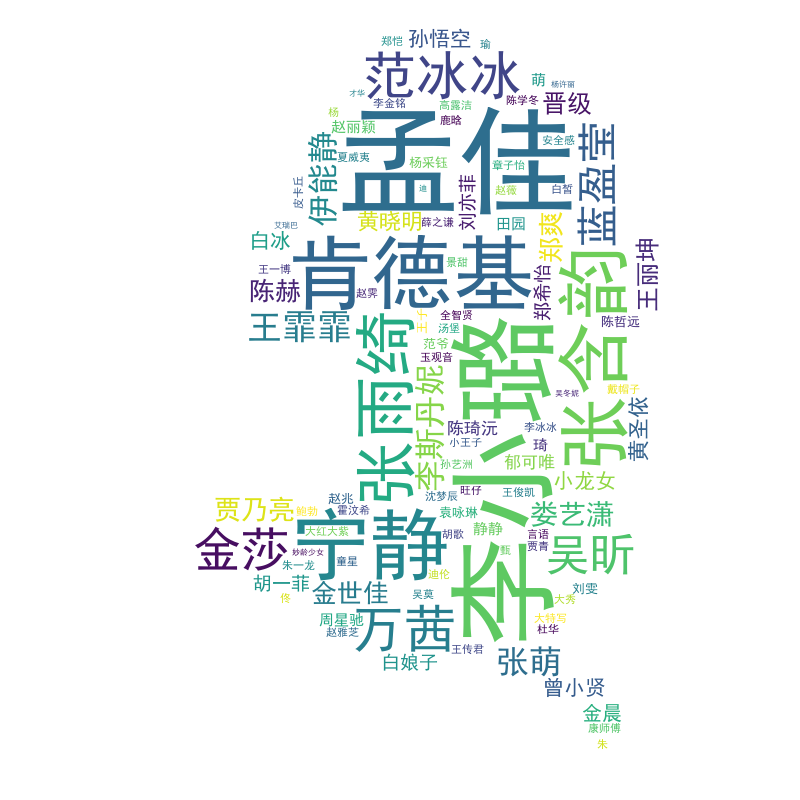
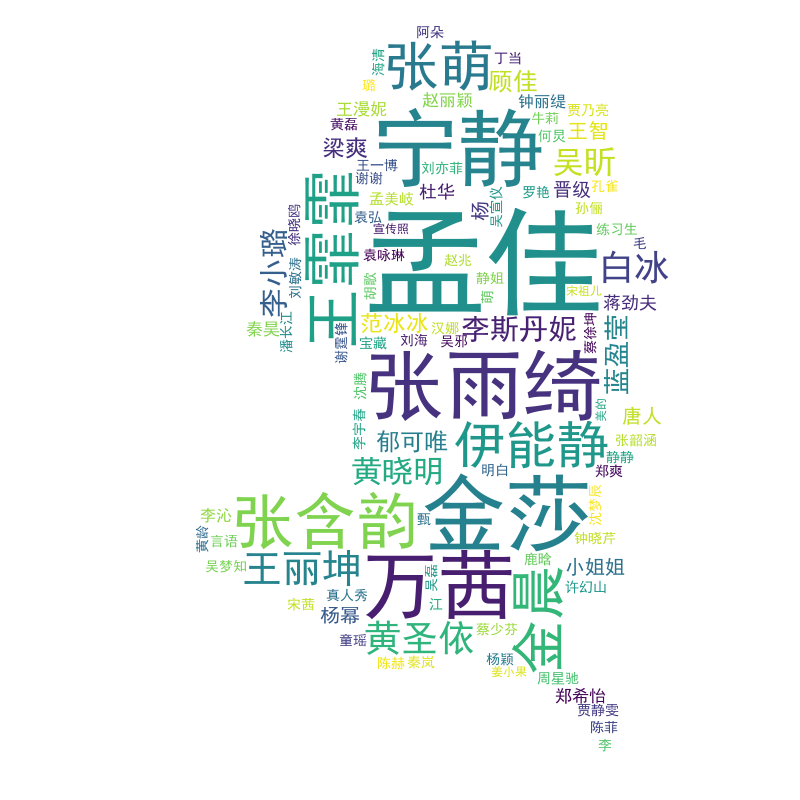
无

Changed region(s): [[0.2188, 0.0312, 0.8438, 0.9375]]

diff --git a/newscrawler/crawler.py b/newscrawler/crawler.py
@@ -49,13 +49,20 @@ url = 'https://pacaio.match.qq.com/irs/rcd?cid=146&token=49cbb2154853ef1a74ff4e5
 
 links = []
 
-for page in range(10):
+for page in range(500):
     print('get page: %s' % page)
-    response = requests.get(url % page)
-    links += [data['vurl'] for data in response.json()['data']]
+    try:
+        response = requests.get(url % page)
+    except Exception:
+        continue
+    else:
+        links += [data['vurl'] for data in response.json()['data']]
 
 words = []
 
+print('amount of links：%s' %len(links))
+
+count = 0
 
 for link in links:
     # 获取文章
@@ -74,7 +81,8 @@ for link in links:
         if '浪姐' not in content and '乘风破浪' not in content:
             continue
 
-        print(paper.title)
+        count += 1
+        print('%s：%s' % (count, paper.title))
         for cuted in pseg.cut(content):
             if 'nr' == cuted.flag and cuted.word not in stop_words:
                 words.append(cuted.word)
